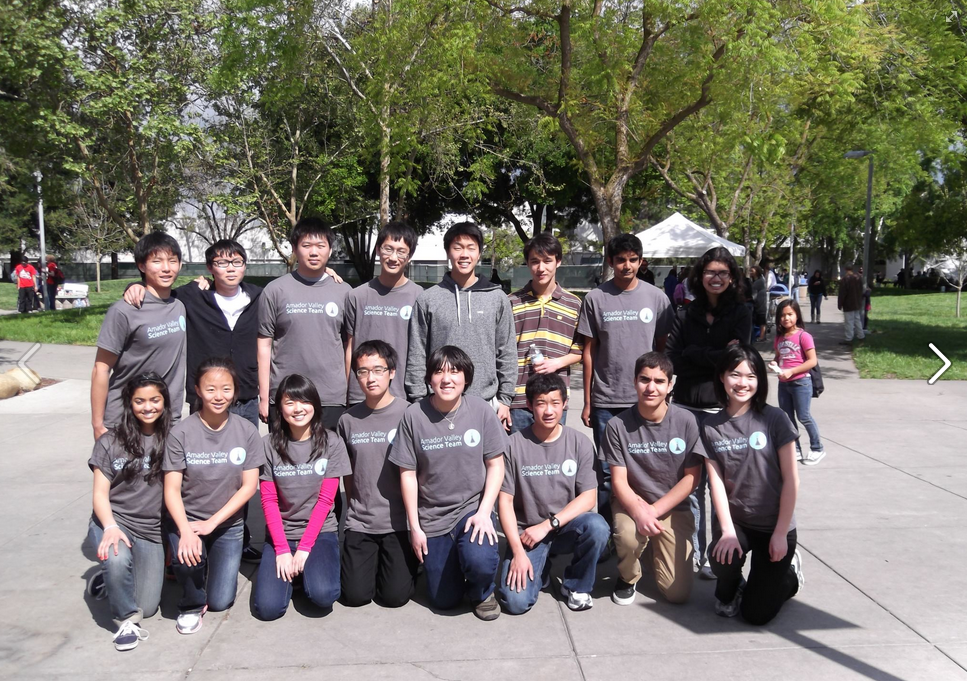
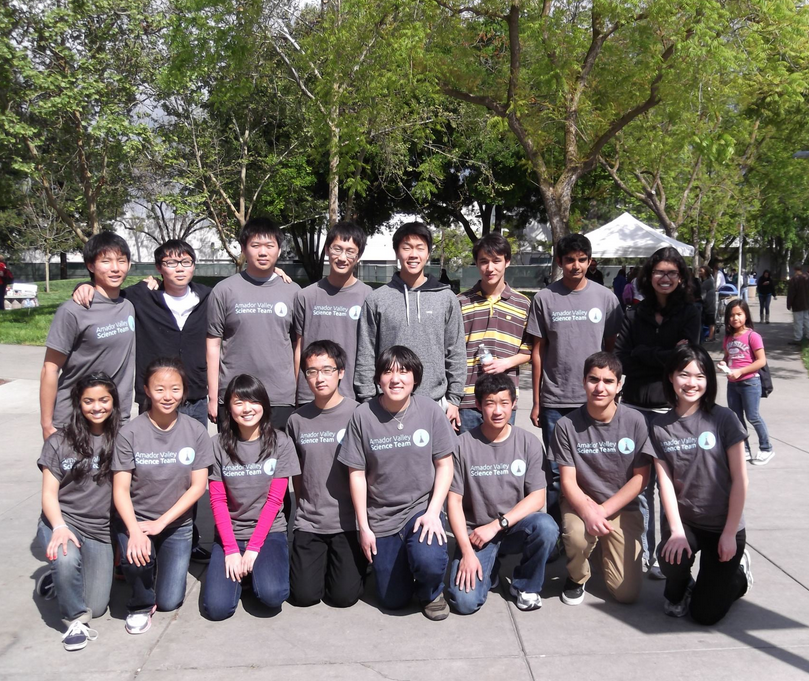
Balanced loading speed and pic quality
downsized pics

diff --git a/gallery/index.php b/gallery/index.php
@@ -12,13 +12,13 @@
 		<h2>Gallery</h2>
 		<table cellspacing = "1">
 			<tr>
-				<td> <img src = "/img/Gallery/Fresno2012.png" width = "720"> </td>
+				<td> <img src = "/img/Gallery/Fresno2012.png" width = "680"> </td>
 			</tr>
 			<tr>
-				<td> <img src = "/img/Gallery/ScienceTeam.png" width = "720"> </td>
+				<td> <img src = "/img/Gallery/ScienceTeam.png" width = "680"> </td>
 			</tr>
 		</table>
-		<table cellspacing = "30">
+		<table cellspacing = "20">
 			<tr>
 				<td> <img src = "/img/Gallery/2013_BuildEvent.png" width = "200"> </td>
 				<td> <img src = "/img/Gallery/YashMaglev.png" width = "200"> </td>
